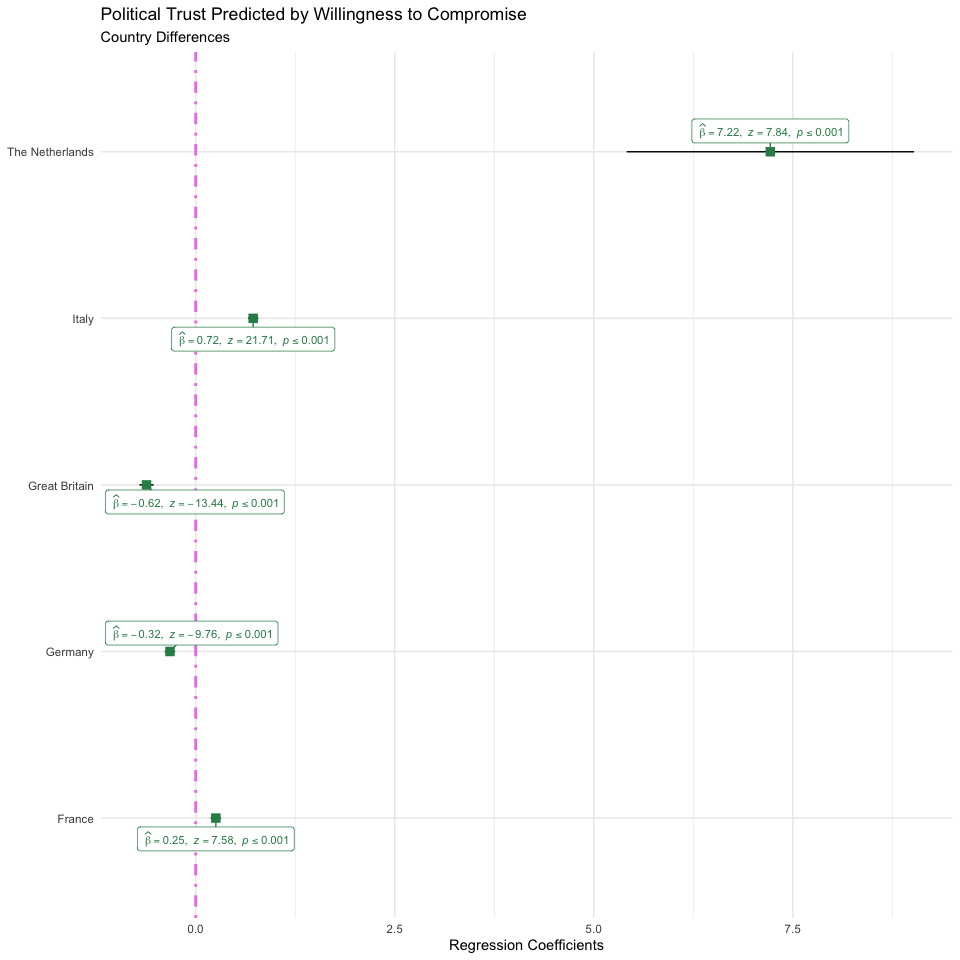
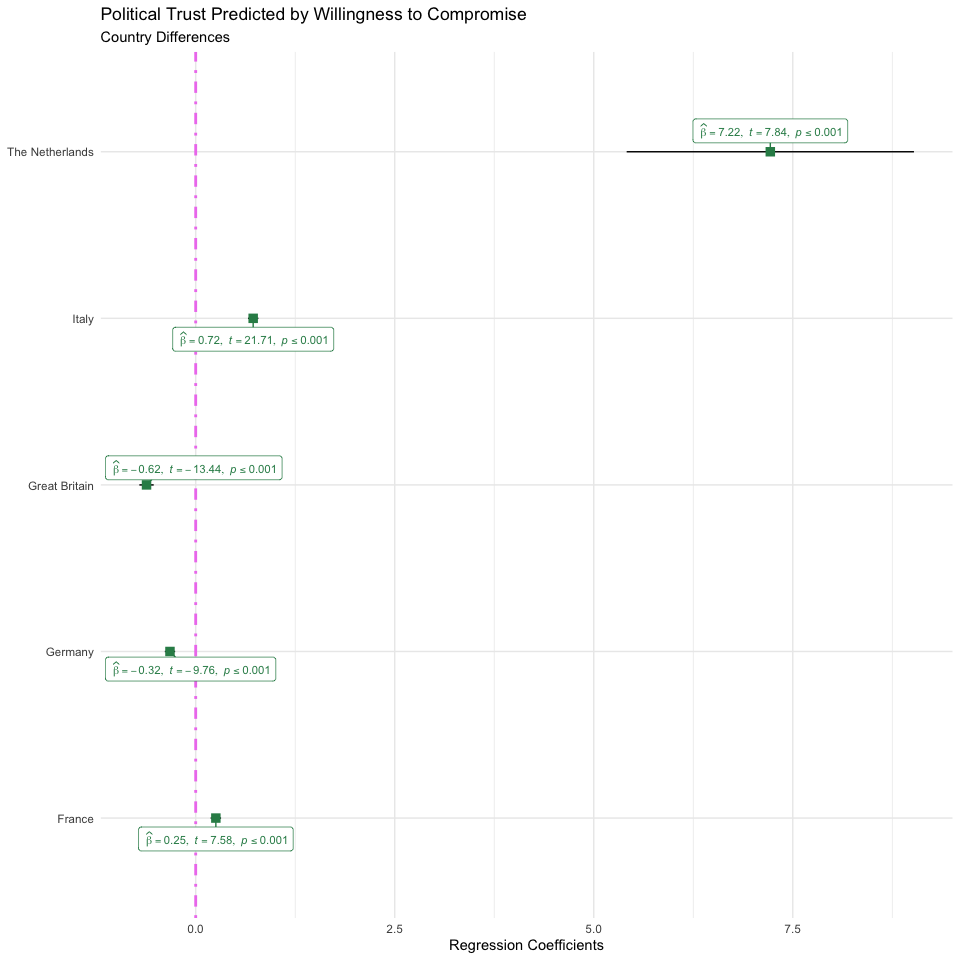
visualization t statistic

diff --git a/src/analysis/obervational_study.md b/src/analysis/obervational_study.md
@@ -63,7 +63,7 @@ ggcoefstats(
   point.args = list(color = "seagreen", size = 3, shape = 15),
   vline.args = list(size = 1, color = "violet", linetype = "dotdash"),
   stats.label.color = "seagreen",
-  statistic = "z",
+  statistic = "t",
   title = "Political Trust Predicted by Willingness to Compromise",
   subtitle = "Country Differences",
   ggtheme = theme_minimal(),
@@ -84,7 +84,7 @@ ggcoefstats(
   point.args = list(color = "seagreen", size = 3, shape = 15),
   vline.args = list(size = 1, color = "violet", linetype = "dotdash"),
   stats.label.color = "seagreen",
-  statistic = "z",
+  statistic = "t",
   title = "Political Trust Predicted by Willingness to Compromise",
   subtitle = "Missing Values",
   ggtheme = theme_minimal(),
